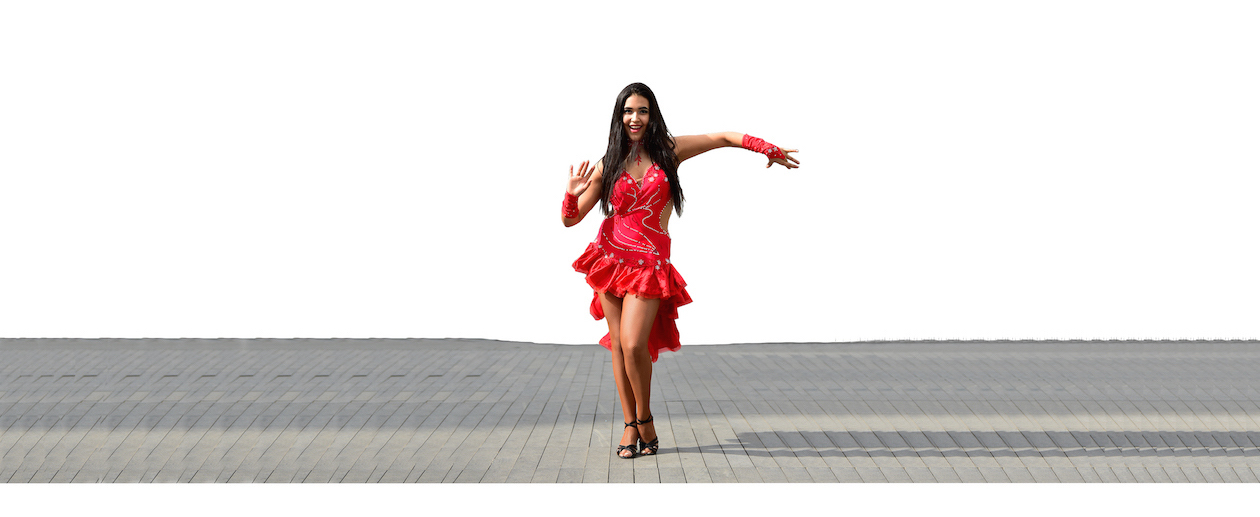
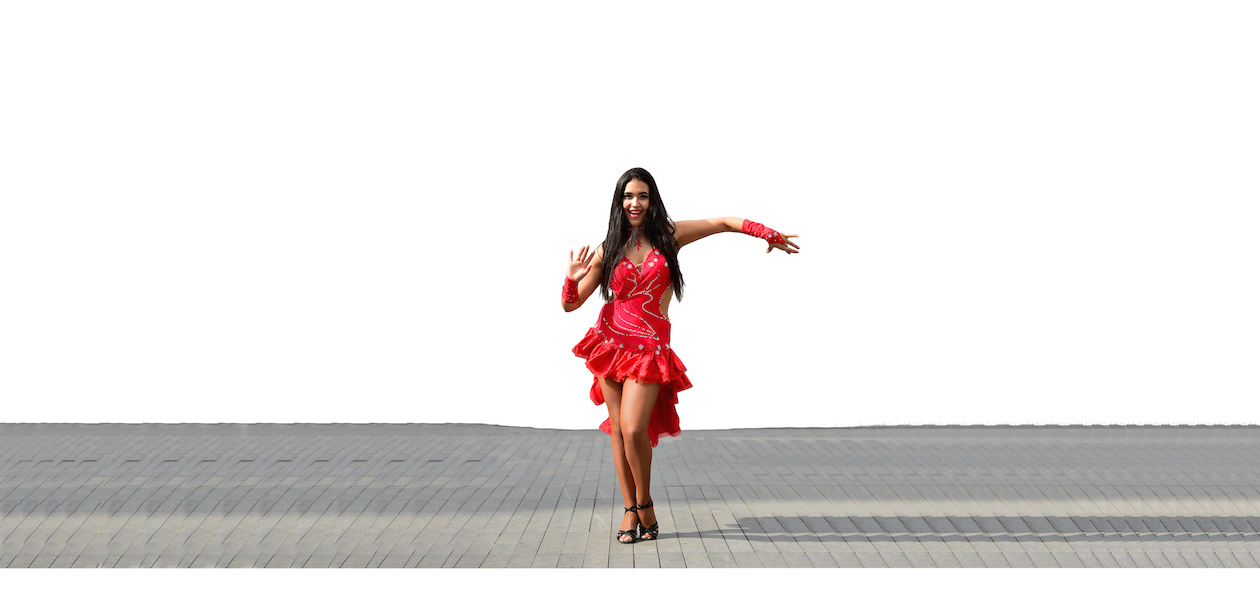
New front photo

Changed region(s): [[0.0, 0.1547, 1.0, 0.9594]]

diff --git a/index.html b/index.html
@@ -101,7 +101,7 @@
         <div class="home2">
             <div class="container">
                 <div class="container-fluid">
-				    <div class="col-lg-12">
+				    <div class="col-lg-12 col-md-10">
                         <p>  <span class="glyphicon glyphicon-film"> </span>  Check out my latest video</p>
              <br>           
                         <div class="video">	 
@@ -140,8 +140,8 @@
       </div>
                         
                            </div>
-                        
-                             
+                       
+                           
                        
                             <div class="col-sm-6">
      <div id="embassadorbtn">                           
@@ -180,7 +180,7 @@
             <div class="container">
                 <div class="navbar-text" id="footertext">
                     <div class="col-sm-5 " id="foot1">
-                    <h4><u>About Rossana Estrada</u></h4>
+                   <h4><u>About Rossana Estrada</u></h4>
                     <p>Artist and performer, combining arts with culture and energy. Unofficial ambassador of Colombia currently residing in China. </p>
                 </div>
                     
@@ -192,8 +192,11 @@
                     <br>
                     
                         <a href="mailto:rossanaestrada3@gmail.com"><i class="fa fa-envelope fa-2x"></i></a>  &nbsp;&nbsp; 
-                        <a href="http://www.facebook.com/"><i class="fa fa-facebook-square fa-2x"></i></a>  &nbsp;&nbsp;
-                        <a href="https://www.youtube.com/user/danielarossana3/videos/"><i class="specialicon"></i><img src="photos/youtube.png"></a>   
+                       
+                         
+                    <a href="https://www.youtube.com/user/danielarossana3/videos/"><i class="fa fa-youtube-square fa-2x"></i></a>  &nbsp;&nbsp;
+                    
+                    <a href="http://i.youku.com/u/UMzEzNzczODIwOA==/"><img src="photos/Youku.png"></img></a>
                     
                     </div>
                 

diff --git a/css/base.css b/css/base.css
@@ -146,6 +146,13 @@ p {
     margin: -1;
 }
 
+#foot2{
+    color:#6C6C6C;
+}
+
+#foot2 a{
+    color:#6C6C6C;
+}
 
 /*the nice long line to break the text*/
 #pagebreak{
